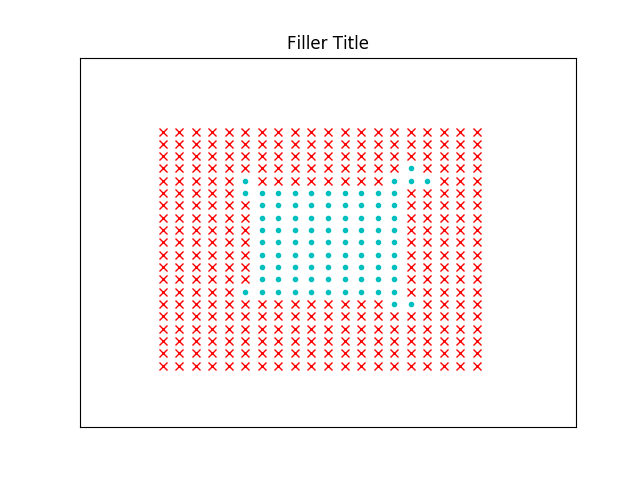
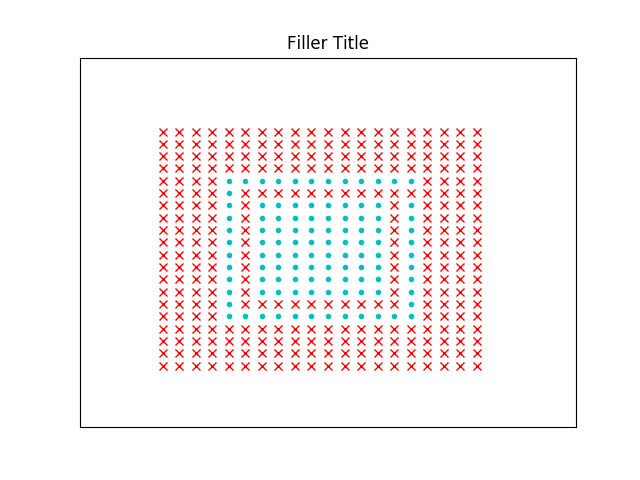
Rough diffusion example

Changed region(s): [[0.3438, 0.375, 0.6562, 0.6875], [0.6562, 0.375, 0.6875, 0.4062], [0.625, 0.3438, 0.6562, 0.375]]

diff --git a/Cellular.py b/Cellular.py
@@ -2,36 +2,67 @@ import numpy as np
 import pylab
 import errno
 import os
+import random
 
 class Automata:
     def __init__(self):
         self.dim = 20
         self.lattice = np.zeros((self.dim, self.dim), dtype=np.float64)
+        self.newsites = np.zeros((self.dim, self.dim), dtype=np.float64)
         self.visualisation_output = '/Users/DanLenton/Downloads/PHYS379/Pictures'
         self.Totaltime = 10
         self.time = 0
+        self.nearestneighbourcoordinates = [[0,1],[0,-1],[1,0],[-1,0],[1,-1],[-1,1],[1,1],[-1,-1]]
 
 
     def lattice_input(self):
         for i in range(self.dim):
             for j in range(self.dim):
-                if (i < 15) and (i > 5) and (j < 15) and (j > 5):
+                if (i < 15) and (i >= 5) and (j < 15) and (j >= 5):  #For a central square block
+                #if (i % 2 == 1) and (j % 2 == 1):                      #For an alternating grid
                     self.lattice[i,j] = 1
+                    self.newsites[i,j] = 1
         self.generate_lattice()
 
     def evolution(self):
+        self.newsites = np.copy(self.lattice)
         for i in range(self.dim):
             for j in range(self.dim):
-                neighbourcount = 0
-                self.nearestneighbourcoordinates = [[i,j+1],[i,j-1],[i+1,j+1],[i+1,j-1],[i+1,j],[i-1,j+1],[i-1,j-1],[i-1,j]]
-                for coordinate in self.nearestneighbourcoordinates:
-                    if (coordinate[0]>=0) and (coordinate[1]>=0) and (coordinate[0]<self.dim) and (coordinate[1]<self.dim):
-                        neighbourcount += self.lattice[coordinate[0],coordinate[1]]
-                if neighbourcount == 2:
-                    self.lattice[i,j] = 1
-                elif neighbourcount <= 1:
-                    self.lattice[i,j] = 0
+                neighbourcount = 0      # A simple model could depend on just the number of occupied neighbours
+                belowcount = 0          # Other models may depend on the j coordinate of the neighbours
+                levelcount = 0
+                abovecount = 0
+                straightbelowcount = 0
+                straightabovecount = 0
+                emptyneighbourlist = []
+                counter = 0
+                for element in self.nearestneighbourcoordinates:
+                    a = self.lattice[(i + element[0]) % self.dim, (j + element[1]) % self.dim]  # Modulo self dim there to create periodic boundary conditions
+                    neighbourcount += a
+                    if a == 0 and self.lattice[i,j] == 1:
+                        emptyneighbourlist.append(element)
+                    if element[1] == -1:
+                        belowcount += a
+                    elif element[1] == 0:
+                        levelcount += a
+                    elif element[1] == 1:
+                        abovecount += a
+                    if element[1] == -1 and element[0] == 0:
+                        straightbelowcount += a
+                    if element[1] == 1 and element[0] == 0:
+                        straightabovecount += a
+                while counter <= len(emptyneighbourlist):
+                    if len(emptyneighbourlist) != 0:
+                        randcoordinate = random.randint(0,len(emptyneighbourlist) - 1)
+                        self.newsites[i, j] = 0
+                        self.newsites[(i + emptyneighbourlist[randcoordinate][0]) % self.dim, (j + emptyneighbourlist[randcoordinate][1]) % self.dim] = 1
+                    counter += 1
+                #if straightabovecount == 1 and straightbelowcount == 0:
+                    #self.newsites[i,j] = 1
+                #if straightbelowcount == 1 and straightabovecount == 0:
+                    #self.newsites[i,j] = 0
         self.time += 1
+        self.lattice = np.copy(self.newsites)
         if self.time <= 10:
             self.generate_lattice()
 
